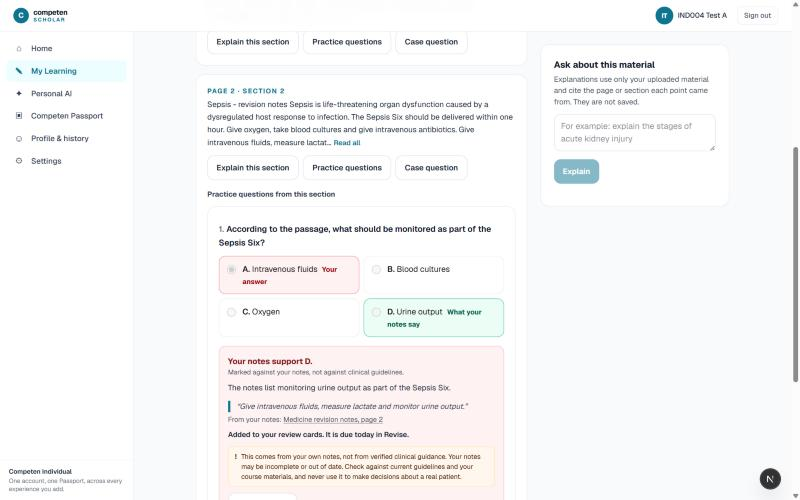
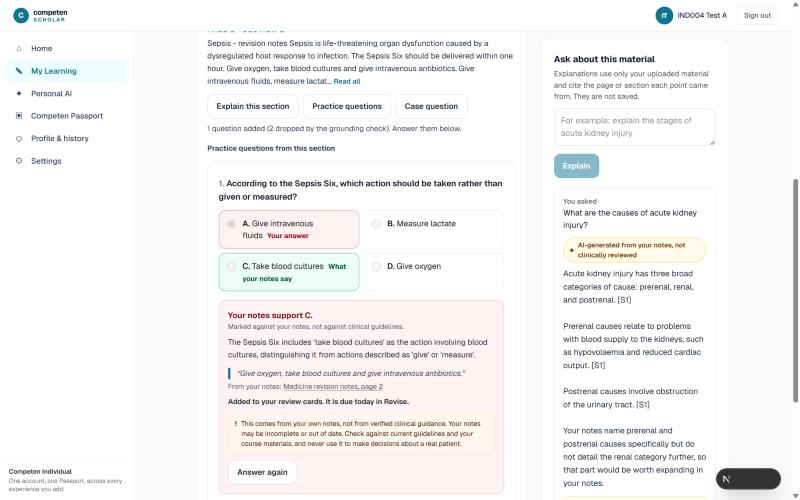
fix(scholar): Revise keeps its session summary after the refresh; live owner-review evidence; staging 43/43
- Revise always renders the review component, which shows its own 'nothing is due'
  explanation. The refresh after the last card (which clears the due badge) no longer swaps
  it for a panel that dropped the summary. Verified live.
- Question-writing note: 'dropped by the quality checks', not 'the grounding check'. Drops
  now come from three layers.
- Evidence: with the AI provider credit restored, the seeded owner-review screenshots
  (r04-r09, r11, r12) are replaced with live output, and r13 adds a live explanation.
- Build record section 9:
  - staging acceptance 43/43, with A1-A3 green;
  - v3 pipeline re-measured at 11 kept, every set at least 1 on the first attempt, 8-10 s;
  - the AI blocker is resolved, and pilot condition 1 is met;
  - recorded limitation: explanatory paraphrase in explanations is not term-checked.

diff --git a/src/app/individual/(app)/[experience]/(scholar)/study/_components/client.tsx b/src/app/individual/(app)/[experience]/(scholar)/study/_components/client.tsx
@@ -271,7 +271,7 @@ export function ChunkActions({ chunkId, consent }: { chunkId: string; consent: b
     setBusy("");
     if (!r.ok) { setError(r.json.error ?? "No questions could be written."); return; }
     if (!r.json.created) { setNote(r.json.message); return; }
-    setNote(`${r.json.created} ${kind === "case" ? "case " : ""}question${r.json.created === 1 ? "" : "s"} added${r.json.dropped ? ` (${r.json.dropped} dropped by the grounding check)` : ""}. ${kind === "case" ? "Find them under Apply." : "Answer them below."}`);
+    setNote(`${r.json.created} ${kind === "case" ? "case " : ""}question${r.json.created === 1 ? "" : "s"} added${r.json.dropped ? ` (${r.json.dropped} dropped by the quality checks)` : ""}. ${kind === "case" ? "Find them under Apply." : "Answer them below."}`);
     router.refresh();
   }
   return (
@@ -392,7 +392,8 @@ export function CardReview({ cards }: { cards: CardView[] }) {
   if (!card) {
     return (
       <div className="rounded-2xl border border-gray-200 bg-white p-5 sm:p-6">
-        <p className="text-[15px] font-semibold text-gray-900">{done.length ? `Done for today: you reviewed ${done.length} card${done.length === 1 ? "" : "s"}.` : "Nothing is due."}</p>
+        <p className="text-[15px] font-semibold text-gray-900">{done.length ? `Done for today: you reviewed ${done.length} card${done.length === 1 ? "" : "s"}.` : "Nothing is due for review."}</p>
+        {!done.length && <p className="mt-1 text-[13.5px] text-gray-600">Cards appear here when you get a practice or case question wrong. Answer some questions on one of your materials to start.</p>}
         {done.length > 0 && (
           <ul className="mt-3 divide-y divide-gray-100 rounded-xl border border-gray-200">
             {done.map((d, k) => (

diff --git a/src/app/individual/(app)/[experience]/(scholar)/study/revise/page.tsx b/src/app/individual/(app)/[experience]/(scholar)/study/revise/page.tsx
@@ -45,11 +45,9 @@ export default async function Revise({ params }: { params: Promise<{ experience:
       {!cards.ok ? (cards.notProvisioned
         ? <StatePanel title="Revision is not set up on this environment yet"><p>The study store it needs has not been installed here.</p></StatePanel>
         : <Unreadable what="review cards" />)
-        : cards.data.length === 0 ? (
-          <StatePanel title="Nothing is due for review">
-            <p>Cards appear here when you get a practice or case question wrong. Answer some questions on one of your materials to start.</p>
-          </StatePanel>
-        ) : <CardReview cards={views} />}
+        // One component whether or not anything is due, so the session summary survives the refresh
+        // that follows the last card.
+        : <CardReview cards={views} />}
     </>
   );
 }

diff --git a/docs/COMPETEN-IND-004-scholar-learning-mvp.md b/docs/COMPETEN-IND-004-scholar-learning-mvp.md
@@ -174,6 +174,7 @@ The owner accepted the Scholar journey as the MVP foundation, subject to one foc
 1. Distractors limited to the notes' own terms are safe but sometimes *obviously* wrong ("Take oxygen", "Fatigue, to relieve fluid overload"). That lowers discrimination, but nothing they say is false.
 2. The blind check is a second reading by the same model family. It catches ambiguity and keying errors; it is not a clinical review.
 3. A synonym of a passage term ("administer" for "give") is refused even when harmless. That is the conservative direction.
+4. **Explanations** are checked for numbers, months and clinical finding-words. Explanatory paraphrase is not checked. The live explanation glossed prerenal causes as "problems with blood supply to the kidneys", a phrase the notes do not contain. The source notice and the AI label are there for exactly this, and the passage is one click away.
 
 ### Verification
 
@@ -183,9 +184,9 @@ The owner accepted the Scholar journey as the MVP foundation, subject to one foc
 | `vitest` | **585 / 585**, including 10 new quality and verification cases. The fail-closed verdict and the CT-scan distractor are among them. |
 | `scholar-learning-harness` | **58 / 58**. R1–R5 pin each P0. Planted controls P11 (quality layer off), P12 (blind check skipped) and P13 ("mastery" back on a screen) each go red. |
 | `individual-foundation` / `auth-boundary` / `plane-boundary` / `access-doors` | 44/44 · green · 35/35 · 39/39 |
-| Real model, v3 pipeline, measured before the provider stopped | 11 blind-verified questions across 6 sets (3 passages × MCQ and case), at least 1 per set, 8–17 s per request. Every drop had a stated reason. |
-| Staging acceptance, re-run (flag ON for the run, restored to no row, IND-007 told) | **40 / 43.** All non-AI groups are green, including the new C6, U7 and U8. **A1–A3 failed only because the AI provider rejected every call:** "credit balance is too low" (see Blockers). |
-| Walk-through, updated presentation | 9 desktop (1440) and 3 mobile (390) screenshots in `docs/evidence/COMPETEN-IND-004/owner-review/`: AI help off, the notice before agreeing, AI help on, the two-column material page, feedback against the notes with the source notice, labelled personal scenarios, a revision answer with the notice, the revision summary, practice accuracy, sticky study tabs on mobile, case feedback and progress on mobile. **Because the provider was down, the fixture's questions were seeded.** Their stems and options are real v3-pipeline output from the measured run, the rationales and quotes are verbatim from the notes, and the rows are marked `model: screenshot-seed`. No explanation screenshot was possible. |
+| Real model, v3 pipeline | First run: 11 blind-verified questions across 6 sets, at least 1 per set, 8–17 s. **Re-measured after the credit was restored: 11 kept, every set at least 1 on the first attempt, 8–10 s.** Drops were 4 `unsupported_term` and 2 `ungrounded`, with no blind-check rejections. |
+| Staging acceptance, re-run (flag ON for the run, restored to no row and confirmed in the database, IND-007 told) | First run **40 / 43**: A1–A3 failed only because the AI provider was out of credit. **After the owner topped it up: 43 / 43, A1–A3 green.** The live explanation was shown. Questions kept 0 on the harness's short page-1 passage, which A2 allows: it checks that what is kept is sound, not that something is kept. |
+| Walk-through, updated presentation | 9 desktop (1440) and 3 mobile (390) screenshots in `docs/evidence/COMPETEN-IND-004/owner-review/`: AI help off, the notice before agreeing, AI help on, the two-column material page, feedback against the notes with the source notice, labelled personal scenarios, a revision answer with the notice, the revision summary, practice accuracy, sticky study tabs on mobile, case feedback and progress on mobile. **These were first captured with seeded questions while the provider was down. All of them are now replaced with live output.** That covers r04–r09, r11 and r12, plus **r13, a live explanation** cited to page 1 with the source notice. No screenshot in the set shows seeded data. |
 
 ### P1, done within scope
 
@@ -218,13 +219,13 @@ The owner accepted the Scholar journey as the MVP foundation, subject to one foc
 
 ### Blockers
 
-1. **The AI provider account is out of credit.** Every `generate()` returns `400 invalid_request_error: Your credit balance is too low` (request `req_011CgJciKh2J36AbCTKb1Mbc`). That blocks the live re-verification of P0.1 on staging (A1–A3). It is owner billing, not code. If production shares the key, production AI features are affected too.
+1. ~~The AI provider account was out of credit.~~ **Resolved:** the owner topped it up, and A1–A3 are green.
 2. Unchanged: production for 372 needs a separate GO (production freeze); the LEGAL-001 documents and the consent-notice wording need review; and `individual_app` is OFF in production.
 
 ### Recommended Scholar pilot-readiness decision
 
 **Conditional GO for a closed pilot, on four owner-side conditions. No further code is required.**
-1. Restore AI provider credit, then re-run `scholar-acceptance-harness` on staging until A1–A3 are green.
+1. ~~Restore AI provider credit, then A1–A3 green on staging.~~ **Met** (43/43).
 2. Publish the Holdings and Scholar-operator terms and privacy versions (LEGAL-001) and approve the consent-notice wording.
 3. Give the production GO for 370 and 372, after the recovery mechanism the production freeze requires.
 4. Turn `individual_app` on, and pilot-grant the cohort through the HQ grant right (D8/D9).
